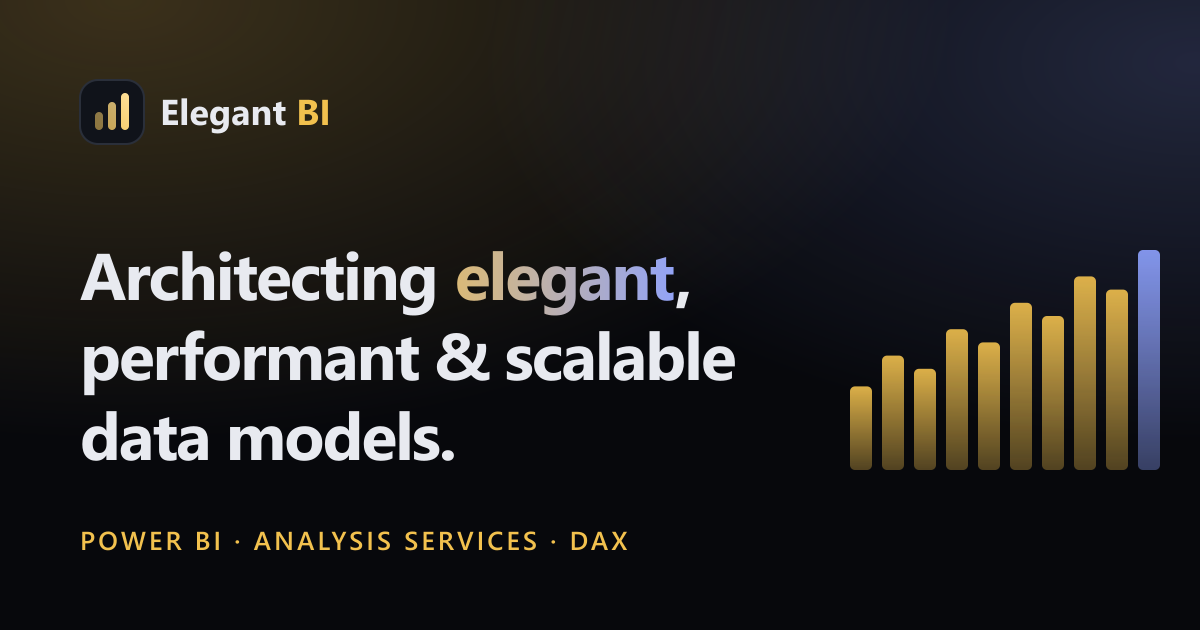
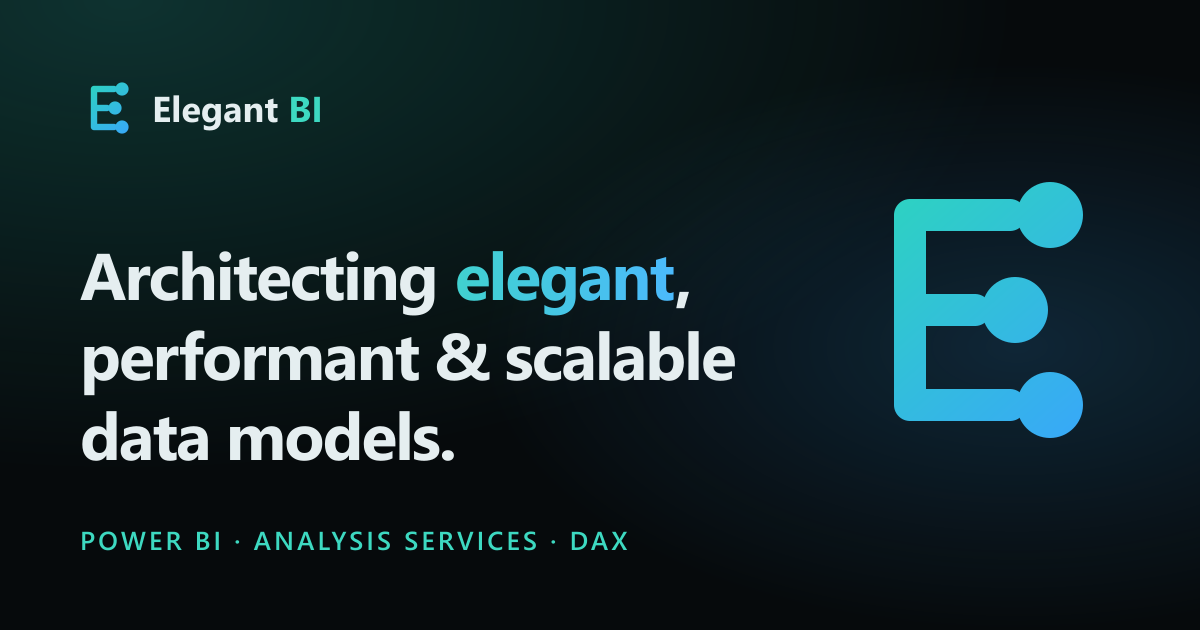
teal theme

diff --git a/src/styles/global.css b/src/styles/global.css
@@ -5,56 +5,60 @@
 :root,
 :root[data-theme='dark'] {
   color-scheme: dark;
-  --bg: #07080c;
-  --bg-soft: #0b0d13;
-  --surface: #10131a;
-  --surface-2: #161a23;
-  --surface-3: #1d2230;
+  --bg: #060a0c;
+  --bg-soft: #0a0f12;
+  --surface: #0e1518;
+  --surface-2: #142024;
+  --surface-3: #1b2a2f;
   --border: rgb(255 255 255 / 0.07);
   --border-strong: rgb(255 255 255 / 0.13);
-  --text: #e8eaf0;
-  --text-muted: #a2aabb;
-  --text-subtle: #6f7789;
-  --accent: #f2c14e;
-  --accent-strong: #ffd479;
-  --accent-ink: #1a1405;
-  --accent-soft: rgb(242 193 78 / 0.12);
-  --accent-2: #8ea2ff;
-  --link: #f5cd6e;
-  --code-bg: #0c0f15;
+  --text: #e5eef0;
+  --text-muted: #9caeb3;
+  --text-subtle: #687c82;
+  --accent: #3dd9c1;
+  --accent-strong: #8cf0e1;
+  --accent-solid: #2cc7b4;
+  --accent-fill: linear-gradient(135deg, #34d8c0 0%, #3cb6f4 100%);
+  --accent-ink: #03191c;
+  --accent-soft: rgb(61 217 193 / 0.12);
+  --accent-2: #4cb8ff;
+  --link: #66e3d1;
+  --code-bg: #0a1114;
   --code-inline-bg: rgb(255 255 255 / 0.06);
-  --code-inline-text: #f3d48a;
+  --code-inline-text: #86ead9;
   --placeholder: #ff9d4d;
   --shadow: 0 1px 0 rgb(255 255 255 / 0.04) inset, 0 20px 50px -20px rgb(0 0 0 / 0.7);
-  --glow: radial-gradient(60rem 30rem at 15% -10%, rgb(242 193 78 / 0.13), transparent 60%),
-    radial-gradient(50rem 30rem at 95% 0%, rgb(142 162 255 / 0.12), transparent 60%);
+  --glow: radial-gradient(60rem 30rem at 15% -10%, rgb(45 212 191 / 0.13), transparent 60%),
+    radial-gradient(50rem 30rem at 95% 0%, rgb(56 160 248 / 0.12), transparent 60%);
 }
 
 :root[data-theme='light'] {
   color-scheme: light;
-  --bg: #fbfaf7;
-  --bg-soft: #f5f3ee;
+  --bg: #f8fafa;
+  --bg-soft: #f0f5f5;
   --surface: #ffffff;
-  --surface-2: #f4f2ec;
-  --surface-3: #ebe8df;
-  --border: rgb(20 22 28 / 0.08);
-  --border-strong: rgb(20 22 28 / 0.15);
-  --text: #15171d;
-  --text-muted: #525a69;
-  --text-subtle: #7b8291;
-  --accent: #b7791f;
-  --accent-strong: #975a16;
+  --surface-2: #edf3f3;
+  --surface-3: #e1eaeb;
+  --border: rgb(12 30 34 / 0.08);
+  --border-strong: rgb(12 30 34 / 0.15);
+  --text: #0f1a1d;
+  --text-muted: #4b5d62;
+  --text-subtle: #74868b;
+  --accent: #0b8579;
+  --accent-strong: #08665d;
+  --accent-solid: #0f766e;
+  --accent-fill: linear-gradient(135deg, #0f766e 0%, #0369a1 100%);
   --accent-ink: #ffffff;
-  --accent-soft: rgb(183 121 31 / 0.1);
-  --accent-2: #4b63d8;
-  --link: #9a5b0b;
-  --code-bg: #f6f5f1;
-  --code-inline-bg: rgb(20 22 28 / 0.06);
-  --code-inline-text: #8a4b06;
+  --accent-soft: rgb(13 148 136 / 0.1);
+  --accent-2: #0369a1;
+  --link: #0a7a6f;
+  --code-bg: #f3f7f7;
+  --code-inline-bg: rgb(12 30 34 / 0.05);
+  --code-inline-text: #0b6b62;
   --placeholder: #c2410c;
-  --shadow: 0 1px 2px rgb(20 22 28 / 0.04), 0 18px 40px -24px rgb(20 22 28 / 0.25);
-  --glow: radial-gradient(60rem 30rem at 15% -10%, rgb(242 193 78 / 0.18), transparent 60%),
-    radial-gradient(50rem 30rem at 95% 0%, rgb(142 162 255 / 0.16), transparent 60%);
+  --shadow: 0 1px 2px rgb(12 30 34 / 0.04), 0 18px 40px -24px rgb(12 30 34 / 0.25);
+  --glow: radial-gradient(60rem 30rem at 15% -10%, rgb(45 212 191 / 0.14), transparent 60%),
+    radial-gradient(50rem 30rem at 95% 0%, rgb(56 160 248 / 0.13), transparent 60%);
 }
 
 :root {
@@ -133,7 +137,7 @@ a {
 }
 
 ::selection {
-  background: var(--accent);
+  background: var(--accent-solid);
   color: var(--accent-ink);
 }
 
@@ -183,7 +187,7 @@ p {
   z-index: 100;
   padding: 0.6rem 1rem;
   border-radius: var(--radius-sm);
-  background: var(--accent);
+  background: var(--accent-solid);
   color: var(--accent-ink);
   font-weight: 600;
 }
@@ -240,14 +244,16 @@ p {
 }
 
 .btn-primary {
-  background: var(--accent);
+  background: var(--accent-fill);
   border-color: transparent;
   color: var(--accent-ink);
+  box-shadow: 0 8px 24px -10px var(--accent-solid);
 }
 
 .btn-primary:hover {
-  background: var(--accent-strong);
+  background: var(--accent-fill);
   border-color: transparent;
+  filter: brightness(1.12);
 }
 
 .chip {
@@ -642,6 +648,8 @@ a.chip:hover,
 :root .astro-code span.code-placeholder {
   color: var(--placeholder);
   font-weight: 600;
+  background: color-mix(in srgb, var(--placeholder) 13%, transparent);
+  border-radius: 3px;
 }
 
 /* ---------- Utilities ---------- */
